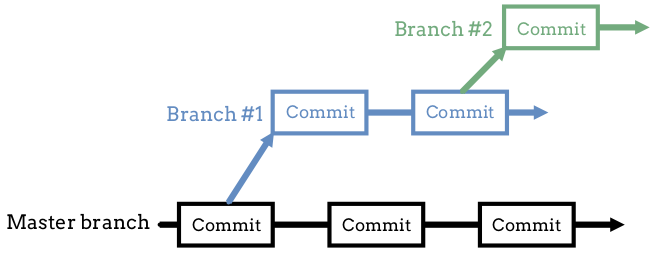
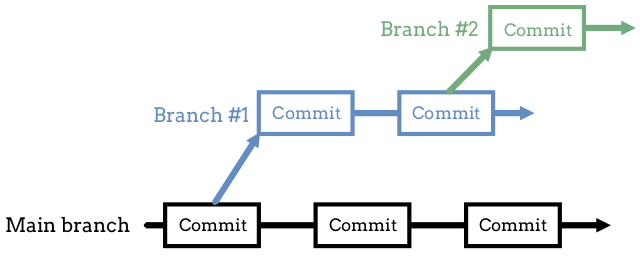
Updated figures and gif in branches.rst.

Changed region(s): [[0.0, 0.0, 0.9688, 0.9688]]

diff --git a/src/chapters/git/branches.rst b/src/chapters/git/branches.rst
@@ -43,12 +43,23 @@ into the main program.
 Branches let programmers start, update, store, and test new features for their
 code without disrupting the main flow of the Git history.
 
-On Branch Master
-----------------
+On Branch ``main``
+------------------
 
 In the :ref:`previous section <check-git-status>`, we used ``git status`` to
 check the state of the ``git_practice`` repository. The first line in the
 output was ``On branch main``.
+
+.. admonition:: Note
+
+   If your installed version of ``git`` gives the default branch a name other
+   than ``main``, you can rename it with the command:
+
+   ::
+
+      $ git branch -m old-branch-name main
+
+   In this case, ``old-branch-name`` becomes ``main``.
 
 When we run ``git init`` to start a new repo, part of the process creates a
 single, default branch called ``main``. Many programmers consider this like
@@ -60,7 +71,7 @@ split up work between partners.
    :alt: Diagram showing two branches coming off of the main one.
    :width: 70%
 
-   Master contains the main, working code for the project. Branches 1 & 2 contain separate copies of the main code.
+   ``main`` contains the central, working code for the project. Branches 1 & 2 contain separate copies of the main code.
 
 .. admonition:: Tip
 
@@ -136,6 +147,9 @@ us into that branch.
          1 file changed, 1 insertion (+)
          create mode 100644 greeting.py
 
+      Just like before, ``git status`` identifies our current branch
+      (``hello-branch``), and it lists the files that contain changes.
+
    #. Enter ``git log`` again and notice that there is a new entry at the top
       of the output.
 
@@ -161,7 +175,7 @@ file tree in VS Code and the ``greeting.py`` tab in the editor.
 
    Branches contain different versions of the project files and code.
 
-Notice that ``greeting.py`` disappears from the file tree! Also, note that
+Notice that ``greeting.py`` disappears from the file tree. Also, note that
 ``(deleted)`` appears in its editor tab.
 
 Fear not! Our work hasn't gone away. Enter ``git checkout hello-branch`` in the
